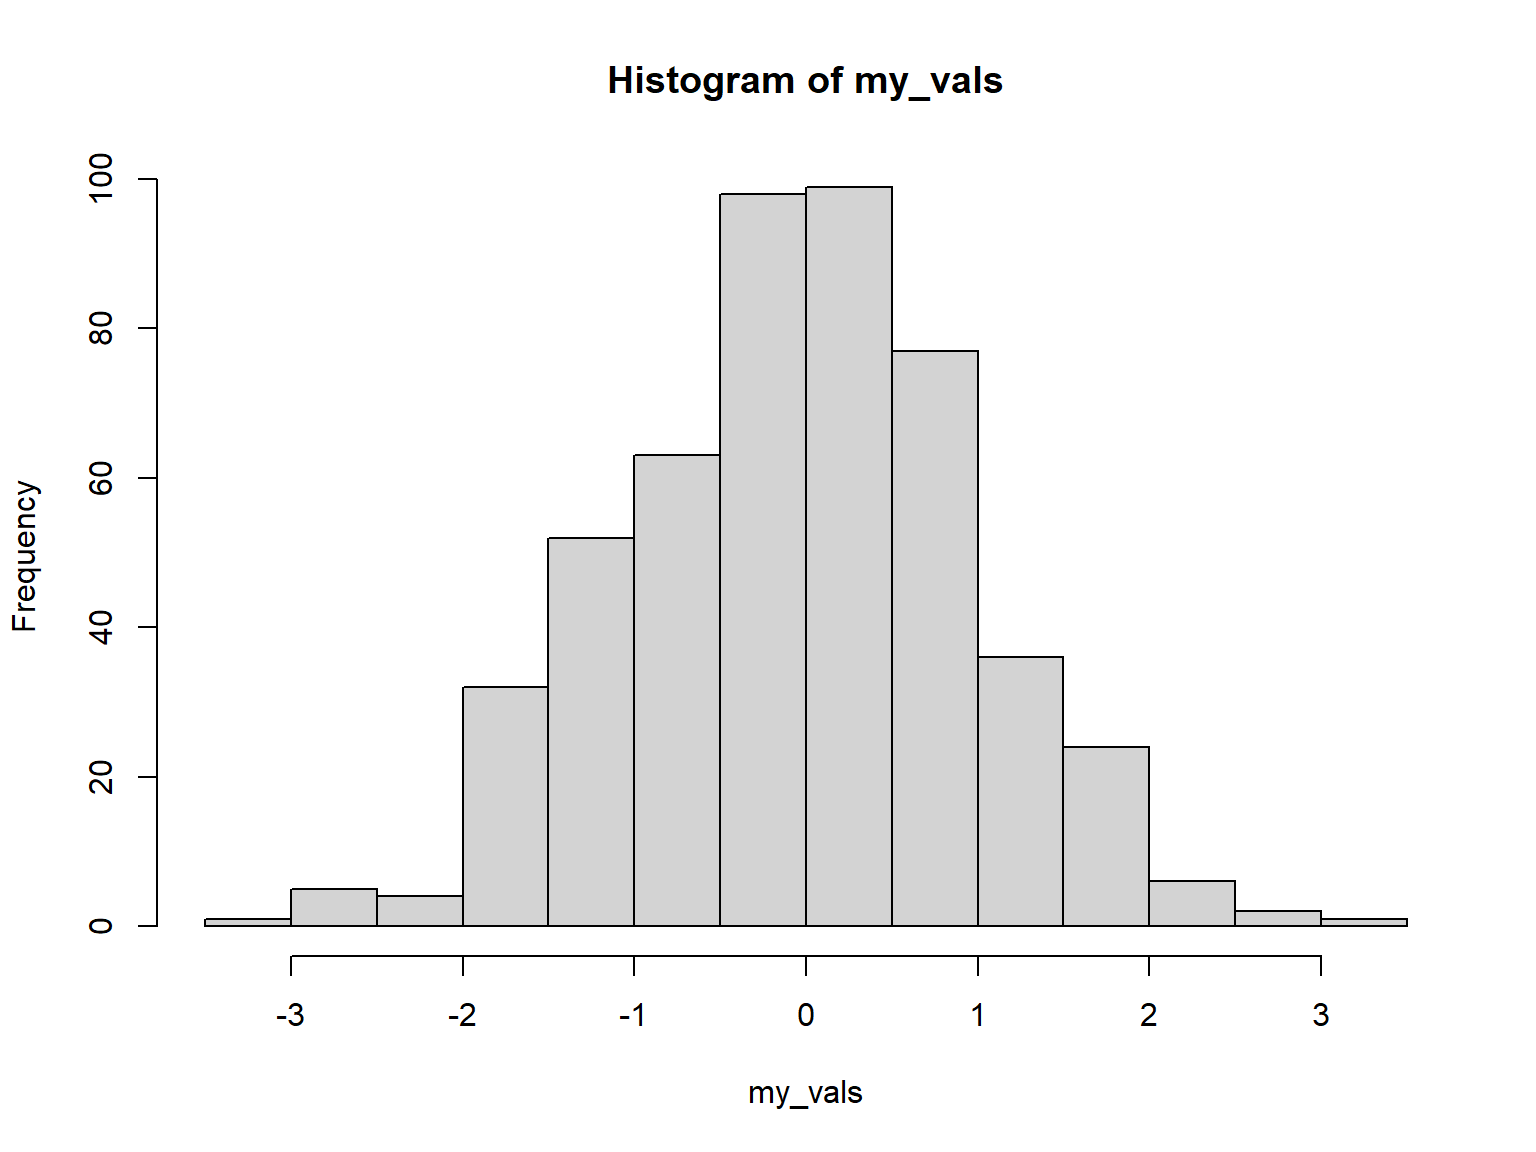
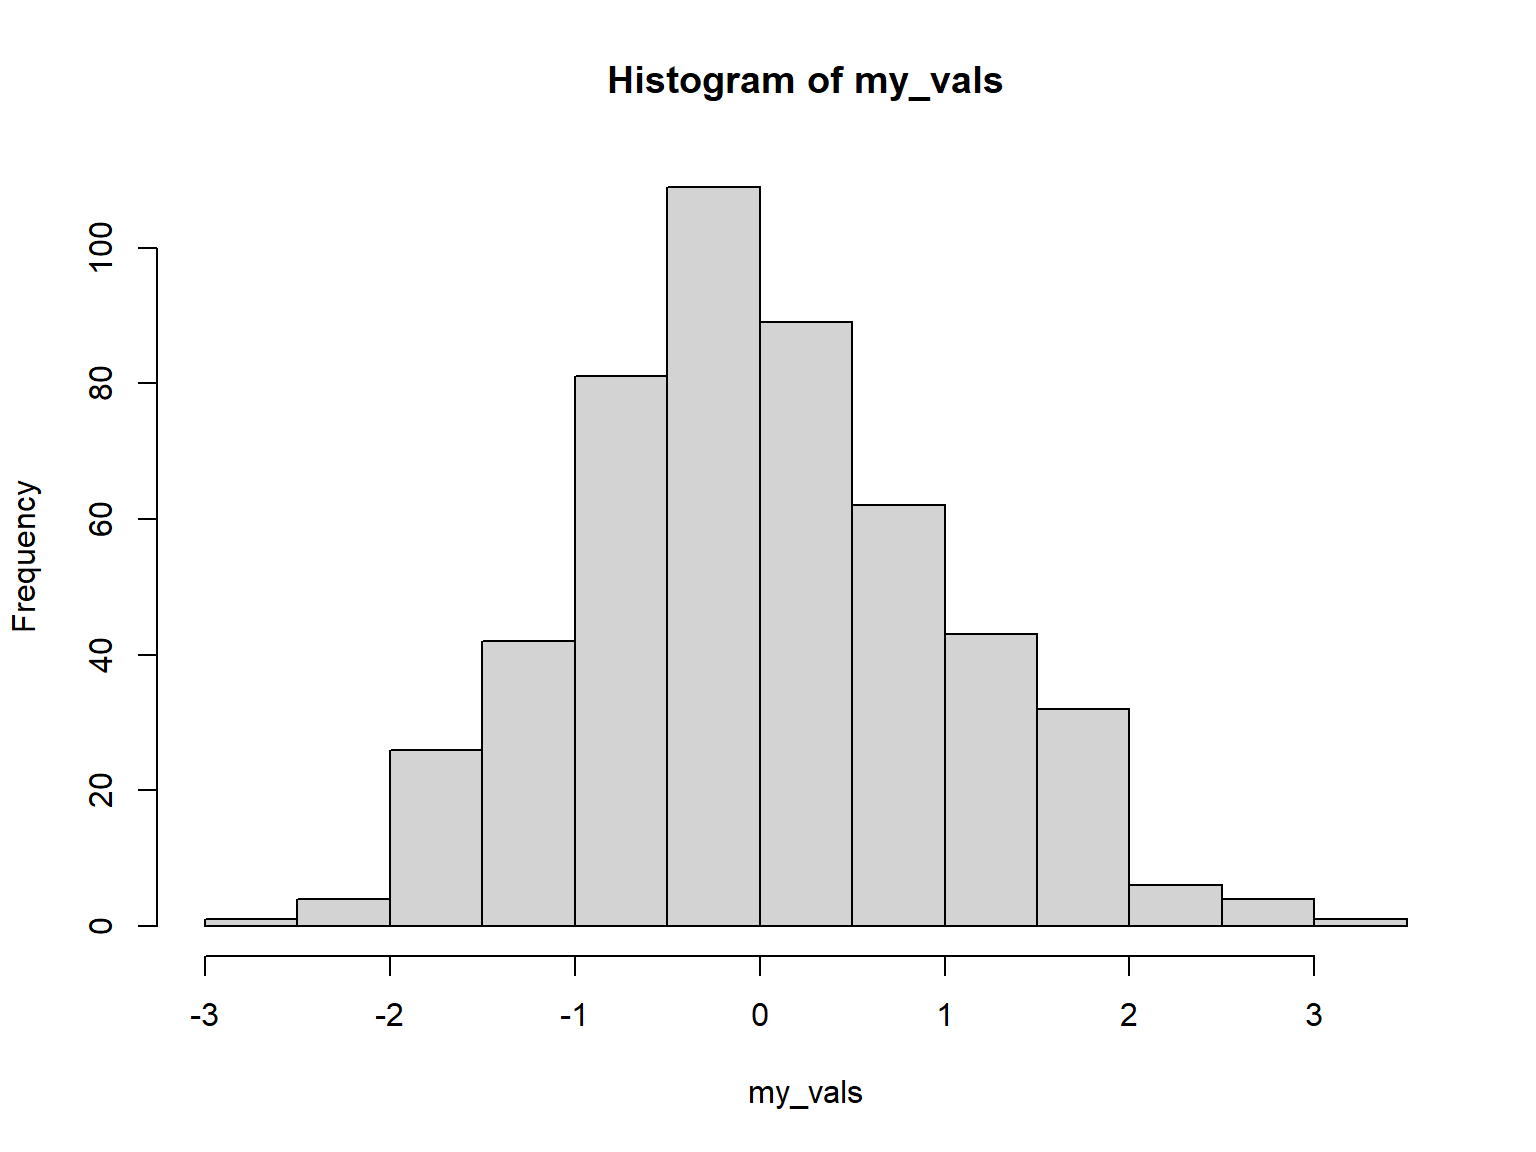
Added VM link

diff --git a/slides/r-intro01-getting-started.html b/slides/r-intro01-getting-started.html
@@ -348,8 +348,8 @@ class="slide section level1">
 </div>
 <p>RStudio Cloud project for this workshop:</p>
 <p style="font-family:monospace; font-size:110%; text-align:center;">
-<a href="https://posit.cloud/content/xxxxx"
-target="_blank">https://posit.cloud/content/xxxxx</a>
+<a href="https://posit.cloud/content/6366989"
+target="_blank">https://posit.cloud/content/6366989</a>
 </p>
 <p>After it opens, click on ‘Save a Permanent Copy’:</p>
 <p><img src="images/rstudio-cloud_save-perm-copy_334x58.png"
@@ -569,15 +569,15 @@ style="margin-left:2em;" /></p>
 <p>Random number functions:</p>
 <div class="indented2 indented2r">
 <div class="sourceCode" id="cb17"><pre class="sourceCode r"><code class="sourceCode r"><span id="cb17-1"><a href="#cb17-1" tabindex="-1"></a><span class="fu">runif</span>(<span class="dv">20</span>)</span></code></pre></div>
-<pre><code>##  [1] 0.8023945228 0.7875603717 0.0005075519 0.3842439402 0.0847290638 0.1657208023 0.3294117518
-##  [8] 0.4095888557 0.7414406231 0.8057238145 0.7901983582 0.2134825860 0.8352446074 0.8379996493
-## [15] 0.1206814470 0.1978880861 0.1545600290 0.6839115124 0.3752676817 0.5699044936</code></pre>
+<pre><code>##  [1] 0.13724123 0.90967580 0.95916498 0.28452439 0.94888352 0.87076291 0.17417834 0.20654216 0.02797795
+## [10] 0.77642690 0.28631124 0.55688143 0.76142189 0.76096482 0.33047902 0.60247499 0.27794112 0.42819622
+## [19] 0.96425800 0.55037837</code></pre>
 <div class="sourceCode" id="cb19"><pre class="sourceCode r"><code class="sourceCode r"><span id="cb19-1"><a href="#cb19-1" tabindex="-1"></a><span class="fu">rnorm</span>(<span class="dv">20</span>)</span></code></pre></div>
-<pre><code>##  [1]  1.14856795  0.78482498 -1.28026716 -1.05545757 -1.05415974 -0.46648160  0.01081679  0.84126062
-##  [9] -0.04283133  0.89257246 -0.45686841 -0.81471256  1.07953391 -1.35834688 -1.63105137  0.35358721
-## [17]  1.76269163 -0.66097946  0.90371007 -0.59218481</code></pre>
+<pre><code>##  [1] -0.71601518  0.31513379  0.61285272 -0.26047050  1.22856538 -0.13902304  0.92643487  0.69292538
+##  [9] -0.49466845  1.36246046  0.09480217  0.46264870  0.19817349  0.03711287  0.63470117 -0.64488792
+## [17] -0.07009347  0.10087078 -2.38676994  0.25094069</code></pre>
 <div class="sourceCode" id="cb21"><pre class="sourceCode r"><code class="sourceCode r"><span id="cb21-1"><a href="#cb21-1" tabindex="-1"></a><span class="fu">sample</span>(month.abb, <span class="dv">3</span>)</span></code></pre></div>
-<pre><code>## [1] &quot;Sep&quot; &quot;Mar&quot; &quot;Jul&quot;</code></pre>
+<pre><code>## [1] &quot;Aug&quot; &quot;Dec&quot; &quot;Jan&quot;</code></pre>
 </div>
 </div>
 <div id="how-vectors-behave" class="slide section level1">
@@ -623,20 +623,20 @@ style="margin-left:2em;" /></p>
 <div class="indented2 indented2r">
 <div class="sourceCode" id="cb35"><pre class="sourceCode r"><code class="sourceCode r"><span id="cb35-1"><a href="#cb35-1" tabindex="-1"></a>x <span class="ot">=</span> <span class="fu">runif</span>(<span class="dv">20</span>)</span>
 <span id="cb35-2"><a href="#cb35-2" tabindex="-1"></a>x</span></code></pre></div>
-<pre><code>##  [1] 0.01445912 0.77765856 0.99786050 0.92950163 0.93257805 0.30339214 0.05104894 0.21756209 0.69767660
-## [10] 0.95361770 0.25953763 0.90938586 0.78279966 0.54638701 0.62692468 0.50905153 0.21519073 0.03934321
-## [19] 0.56786968 0.73756099</code></pre>
+<pre><code>##  [1] 0.23954585 0.79841092 0.89756932 0.38030821 0.55317182 0.97689259 0.30902970 0.26473726 0.55716379
+## [10] 0.32610245 0.60075766 0.97095523 0.06638261 0.49895284 0.88185201 0.76691584 0.03952577 0.81796886
+## [19] 0.82337989 0.88776325</code></pre>
 </div>
 <p><br />
 </p>
 <p>Most descriptive stats functions are aggregate:</p>
 <div class="indented2 indented2r">
 <div class="sourceCode" id="cb37"><pre class="sourceCode r"><code class="sourceCode r"><span id="cb37-1"><a href="#cb37-1" tabindex="-1"></a><span class="fu">mean</span>(x)</span></code></pre></div>
-<pre><code>## [1] 0.5534703</code></pre>
+<pre><code>## [1] 0.5828693</code></pre>
 <div class="sourceCode" id="cb39"><pre class="sourceCode r"><code class="sourceCode r"><span id="cb39-1"><a href="#cb39-1" tabindex="-1"></a><span class="fu">median</span>(x)</span></code></pre></div>
-<pre><code>## [1] 0.5973972</code></pre>
+<pre><code>## [1] 0.5789607</code></pre>
 <div class="sourceCode" id="cb41"><pre class="sourceCode r"><code class="sourceCode r"><span id="cb41-1"><a href="#cb41-1" tabindex="-1"></a><span class="fu">sd</span>(x)</span></code></pre></div>
-<pre><code>## [1] 0.3338808</code></pre>
+<pre><code>## [1] 0.303715</code></pre>
 </div>
 <p><br />
 </p>

diff --git a/setup.html b/setup.html
@@ -369,7 +369,7 @@ requires setting up an account (free).</p>
 <p>To use RStudio Cloud for the workshop, login to your account and then
 click on this link:</p>
 <p class="indented2">
-<a href='https://posit.cloud/content/xxxxx' target='_blank' ref='noopener' style='font-family:monospace;'>https://posit.cloud/content/xxxxx</a>
+<a href='https://posit.cloud/content/6366989' target='_blank' ref='noopener' style='font-family:monospace;'>https://posit.cloud/content/6366989</a>
 </p>
 <p>This will open a RStudio Cloud project with all the required packages
 and data ready to go (you’ll get the scripts from the slide deck during
@@ -415,7 +415,7 @@ pkgs_req &lt;- c(&quot;sf&quot;, &quot;leaflet&quot;, &quot;tmap&quot;, &quot;tm
               &quot;RColorBrewer&quot;, &quot;raster&quot;, &quot;maps&quot;, &quot;tidyverse&quot;,  &quot;jsonlite&quot;, 
               &quot;rasterVis&quot;, &quot;nngeo&quot;, &quot;lwgeom&quot;, &quot;remotes&quot;, 
               &quot;conflicted&quot;, &quot;tigris&quot;, &quot;tidycensus&quot;, &quot;stars&quot;,
-              &quot;googlesheets4&quot;, &quot;httr&quot;, &quot;rjson&quot;, &quot;RSocrata&quot;, &quot;usethis&quot;, &quot;rinat&quot;,
+              &quot;googlesheets4&quot;, &quot;httr&quot;, &quot;rjson&quot;, &quot;usethis&quot;, &quot;rinat&quot;,
               &quot;ggspatial&quot;, &quot;rosm&quot;, &quot;ggimage&quot;, &quot;wrkshputils&quot;, &quot;palmerpenguins&quot;, &quot;here&quot;,
               &quot;terra&quot;)
 
@@ -426,8 +426,9 @@ pkgs_req &lt;- c(&quot;sf&quot;, &quot;leaflet&quot;, &quot;tmap&quot;, &quot;tm
 if (length(pkgs_missing)) install.packages(pkgs_missing, dependencies=TRUE,
                                            repos = c(getOption(&quot;repos&quot;), &#39;https://ajlyons.r-universe.dev&#39;))
 
-## ESRI2SF (not critical)
+## Install GitHub Packages
 remotes::install_github(&quot;yonghah/esri2sf&quot;)
+remotes::install_github(&quot;Chicago/RSocrata&quot;)
 
 ## Re-run the check for missing packages
 pkgs_missing &lt;- pkgs_req[!(pkgs_req %in% installed.packages()[,&quot;Package&quot;])]

diff --git a/slides/wrkshp-intro-pt1.html b/slides/wrkshp-intro-pt1.html
@@ -229,7 +229,7 @@ target="_blank">https://ucanr-igis.shinyapps.io/pist_gdd/</a></p>
 <li>Try to get <strong>working</strong> code</li>
 <li>Focus on <strong>adapting code</strong> rather than starting from
 scratch</li>
-<li>Review what we cover within 24 hours<br />
+<li><strong>Review</strong> what we cover within 24 hours<br />
 </li>
 <li>Ask for help for <strong>cryptic error messages</strong></li>
 <li>Build up you own <strong>library</strong> of working code</li>
@@ -296,8 +296,8 @@ rel="noopener">https://etherpad.wikimedia.org/p/rspatial-bgf23</a></li>
 <p><strong>Virtual Environment</strong></p>
 <div class="compact">
 <ul>
-<li><p><a href="https://posit.cloud/content/xxxxx" target="_blank"
-rel="noopener">https://posit.cloud/content/xxxxx</a></p></li>
+<li><p><a href="https://posit.cloud/content/6366989" target="_blank"
+rel="noopener">https://posit.cloud/content/6366989</a></p></li>
 <li><p>Data and packages pre-installed!</p></li>
 </ul>
 </div>

diff --git a/slides/r-intro02-packages.html b/slides/r-intro02-packages.html
@@ -518,7 +518,7 @@ them <em>starting with the 2nd argument</em> (or use named
 arguments):</p>
 <div class="indented2 indented2r">
 <div class="sourceCode" id="cb7"><pre class="sourceCode r"><code class="sourceCode r"><span id="cb7-1"><a href="#cb7-1" tabindex="-1"></a><span class="fu">runif</span>(<span class="dv">5</span>) <span class="sc">|&gt;</span> <span class="fu">round</span>(<span class="dv">2</span>)</span></code></pre></div>
-<pre><code>## [1] 0.76 0.47 0.27 0.29 0.72</code></pre>
+<pre><code>## [1] 0.04 0.24 0.18 0.20 0.82</code></pre>
 </div>
 <p><br />
 </p>

diff --git a/slides/review-class01.html b/slides/review-class01.html
@@ -356,8 +356,8 @@ scatter plot:</p>
 </ol>
 </div>
 <p style="font-family:monospace; font-size:110%; text-align:center;">
-<a href="https://posit.cloud/content/xxxxx"
-target="_blank">https://posit.cloud/content/xxxxx</a>
+<a href="https://posit.cloud/content/6366989"
+target="_blank">https://posit.cloud/content/6366989</a>
 </p>
 <p><br />
 </p>
